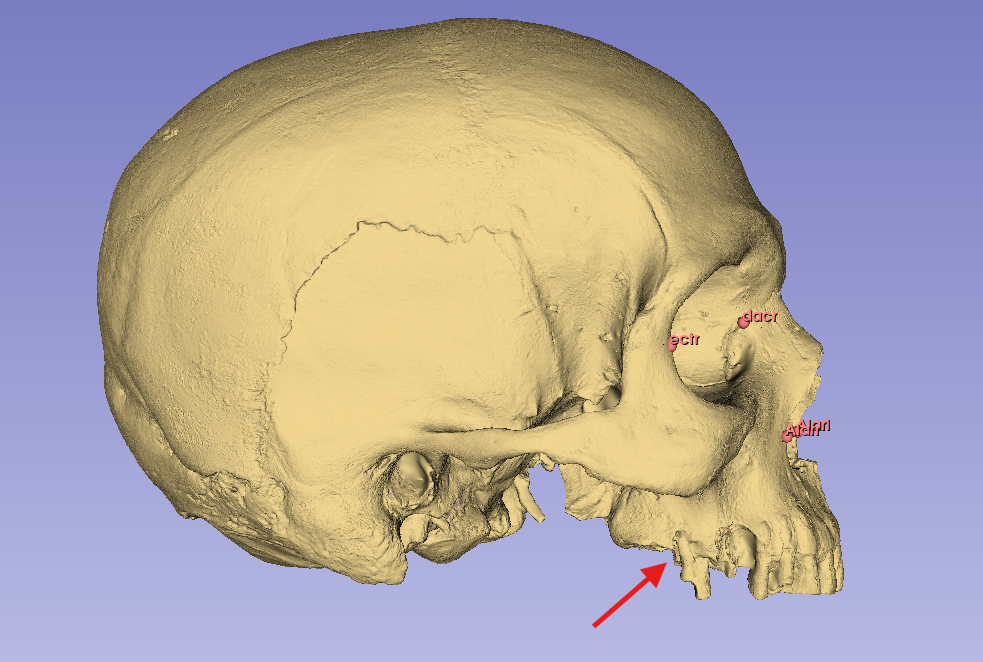
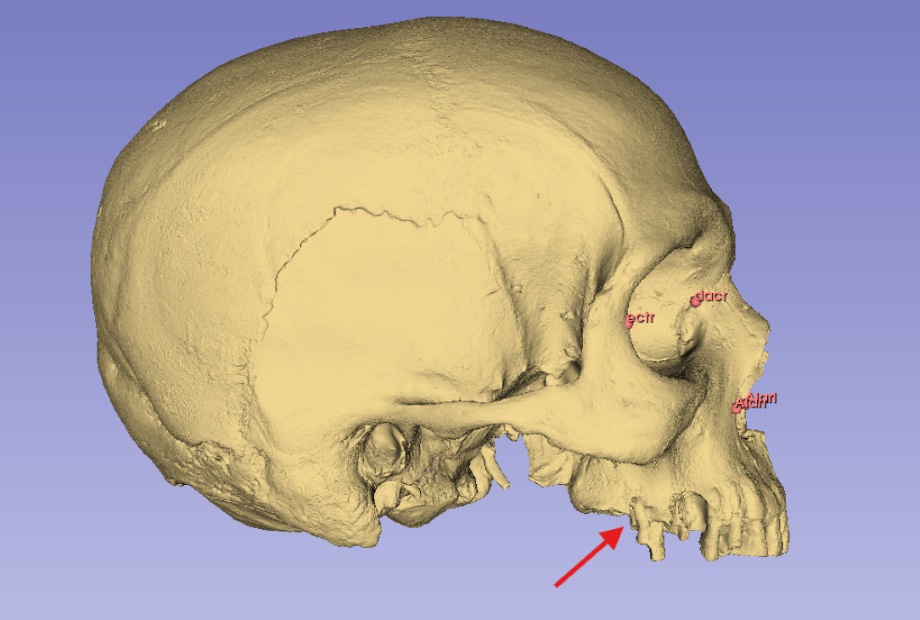
img1a

diff --git a/docs/Mirroring_Landmarks.html b/docs/Mirroring_Landmarks.html
@@ -160,14 +160,29 @@ ul.task-list li input[type="checkbox"] {
 
 <section id="missing-data" class="level2">
 <h2 class="anchored" data-anchor-id="missing-data">Missing Data</h2>
-<p>A problem that I will inevitably face in this project is that imposed by fragmentary crania that are missing necessary morphologies for landmarking. Runnng morphometric assessments requires that all specimens under consideration have the same complete sets of landmarks (Gunz et al.&nbsp;2009). Thus, any specimen that cannot be completely landmarked is rendered useless for the analysis. With limited fossil assemblages, such constraints severly limit the ability to investigate questions of variation over time. Fortunately, some of the issues arising from fragmentary remains have been remedied by digitally exploiting the tendancy towards bilateral symmetry in vertebrate morphology (Gunz et al.&nbsp;2009; Toxvaerd 2021). As is observed on the <a href="./Morph.html"><code>Morphometrics</code></a> page, landmarks can be paired (bilateral) or unpaired. Assuming that the crania are largely symmetrical therefore allows us to “mirror” a single paired landmark from on side of the specimen to the other. Gunz et al.&nbsp;(2009) and Lautenschlager (2016) discuss the common approaches to this task through the production of landmark-based algorithms to approximate the location of the missing coordinate. These predominate strategies include 1) mirroring across an empirical midplane, 2) reflected relabeling, and 3) reflection using the thin-plate spline. Of these, I will employ a strategy most similar to Gunz et al.’s depiction of mirroring across an empirical plan. The deviation I make in my approach, however, is something to consider. The empirical plane that is used in these approaches is the Midsagittal Plane (MSP) that bisects the skull in left and right halves. One approach to identifying this plane with skeletal structures is to identify common midsaggital landmarks that, hypothetically at least, fall along this plane. Such landmarks include Nasion along the frontonasal suture, Basion along the anterior middorsal aspect of the foramen magnum, the Anterior Nasal Spine situated at the base of the nasal aperture along the MSP (on the anterior nasal spine)(Green, Bloom, and Kulbersh 2017). Though these landmarks are said to be found along the MSP, Gunz et al.&nbsp;(2009) suggest that this is somewhat of an abstraction and that the points do not actually lie exactly on a plane. Because of this they recommend computing the actual plane through a larger analysis of all unpaired landmarks to find an “empirical midplane” which paired landmarks can be mirrored across. I deviate from this logic by following Green, Bloom, and Kulbersh (2017) who illustrated the higher efficacy of a landmark guided MSP over the calculated midplane. The following workflow is therefore a description of how I plan to mirror paired landmarks across a MSP established using unpaired coordinates.</p>
+<p>A problem that I will inevitably face in this project is that imposed by fragmentary crania that are missing necessary morphologies for landmarking. Runnng morphometric assessments requires that all specimens under consideration have the same complete sets of landmarks (Gunz et al.&nbsp;2009). Thus, any specimen that cannot be completely landmarked is rendered useless for the analysis. With limited fossil assemblages, such constraints severly limit the ability to investigate questions of variation over time. Fortunately, some of the issues arising from fragmentary remains have been remedied by digitally exploiting the tendancy towards bilateral symmetry in vertebrate morphology (Gunz et al.&nbsp;2009; Toxvaerd 2021). As is observed on the <a href="./Morph.html"><code>Morphometrics</code></a> page, landmarks can be paired (bilateral) or unpaired. Assuming that the crania are largely symmetrical therefore allows us to “mirror” a single paired landmark from on side of the specimen to the other. Gunz et al.&nbsp;(2009) and Lautenschlager (2016) discuss the common approaches to this task through the production of landmark-based algorithms to approximate the location of the missing coordinate. These predominate strategies include 1) mirroring across an empirical midplane, 2) reflected relabeling, and 3) reflection using the thin-plate spline. Of these, I will employ a strategy most similar to Gunz et al.’s depiction of mirroring across an empirical plan. The deviation I make in my approach, however, is something to consider.</p>
+<p>The empirical plane that is used in these approaches is the Midsagittal Plane (MSP) that bisects the skull in left and right halves. One approach to identifying this plane with skeletal structures is to identify common midsaggital landmarks that, hypothetically at least, fall along this plane. Such landmarks include Nasion along the frontonasal suture, Basion along the anterior middorsal aspect of the foramen magnum, the Anterior Nasal Spine situated at the base of the nasal aperture along the MSP (on the anterior nasal spine)(Green, Bloom, and Kulbersh 2017). Though these landmarks are said to be found along the MSP, Gunz et al.&nbsp;(2009) suggest that this is somewhat of an abstraction and that the points do not actually lie exactly on a plane. Because of this they recommend computing the actual plane through a larger analysis of all unpaired landmarks to find an “empirical midplane” which paired landmarks can be mirrored across. I deviate from this logic by following Green, Bloom, and Kulbersh (2017) who illustrated the higher efficacy of a landmark guided MSP over the calculated midplane. The following workflow is therefore a description of how I plan to mirror paired landmarks across a MSP established using unpaired coordinates.</p>
 </section>
 <section id="defining-a-midsagittal-plane" class="level2">
 <h2 class="anchored" data-anchor-id="defining-a-midsagittal-plane">Defining a Midsagittal Plane</h2>
 <p>To set up the problem, the skull I am examining here is missing the necessary morphology to get a good landmark on Ectomolare. This point (see data dictionary) is situated on the lateral most aspect of the buccal alveolar margin, at the center of the second molar position.</p>
-<p>:::{fig-Fragmentary Maxilla}</p>
-<p><img src="Images/sym3.png" class="img-fluid"></p>
-<p>Missing Landmarks :::</p>
+<div id="fig-SliceData" class="quarto-layout-panel">
+<figure class="quarto-float quarto-float-fig figure">
+<div aria-describedby="fig-SliceData-caption-0ceaefa1-69ba-4598-a22c-09a6ac19f8ca">
+<div class="quarto-layout-row">
+<div class="quarto-layout-cell" style="flex-basis: 50.0%;justify-content: center;">
+<p><img src="Images/Sym2.png" class="img-fluid figure-img"></p>
+</div>
+<div class="quarto-layout-cell" style="flex-basis: 50.0%;justify-content: center;">
+<p><img src="Images/Sym3.png" class="img-fluid figure-img"></p>
+</div>
+</div>
+</div>
+<figcaption class="quarto-float-caption-bottom quarto-float-caption quarto-float-fig" id="fig-SliceData-caption-0ceaefa1-69ba-4598-a22c-09a6ac19f8ca">
+Figure&nbsp;1: Missing Landmarks
+</figcaption>
+</figure>
+</div>
 
 
 </section>
